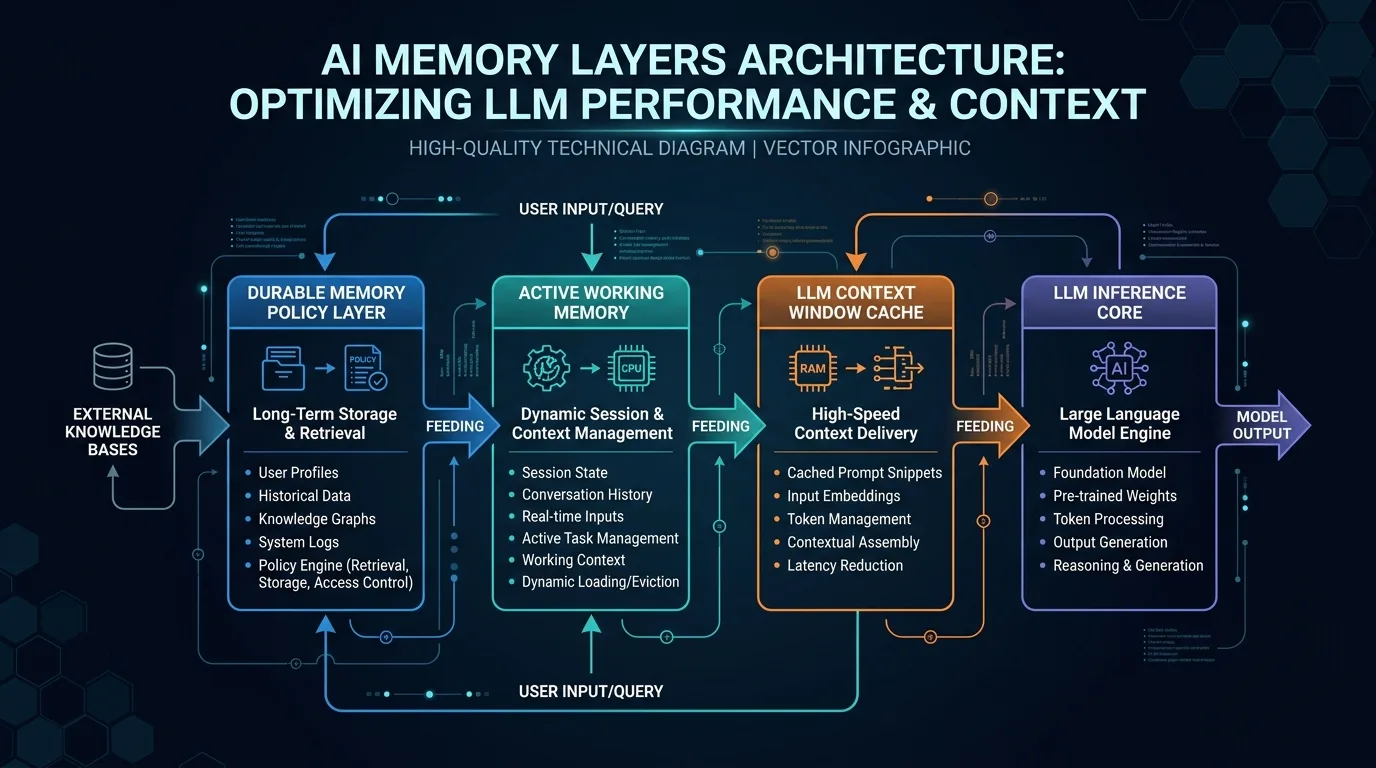
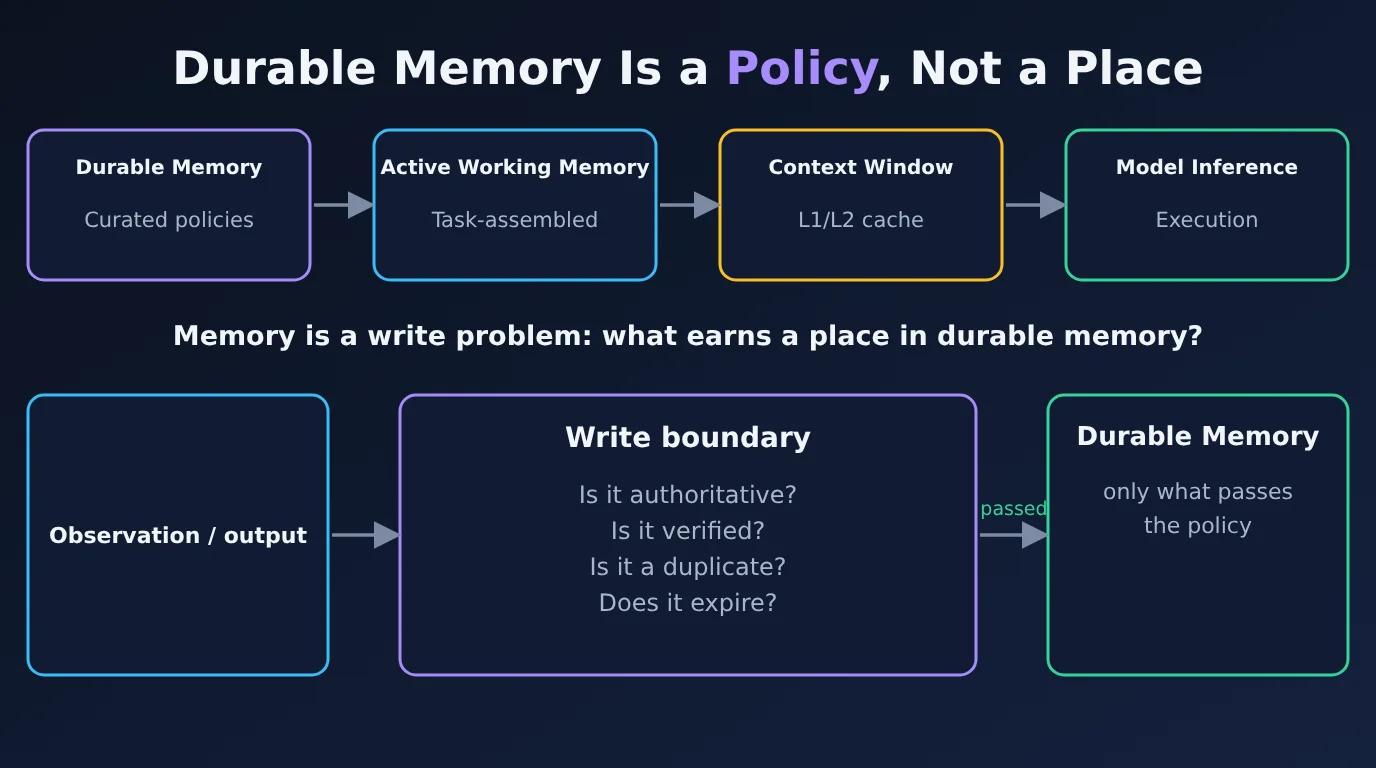
Review fixes: replace 3 inaccurate covers, correct alt text, improve diagram contrast and mobile scrolling
- Replace Polars/io_uring/leaked-prompt covers with accurate hand-drawn ones (design/cover-sources)
- Fix wrong 'Polars' imageAlt on the payment-aging article (Pandas)
- Istio diagram: opaque mesh container; darken low-contrast footnotes in all SVGs
- Body diagrams scroll inside their figure on phones instead of shrinking to unreadable text

Claude-Session: https://claude.ai/code/session_01CQNDUvrhkusfTduGm91qvn

diff --git a/src/styles/global.css b/src/styles/global.css
@@ -777,3 +777,9 @@ article ul, article ol { padding-left: 1.4rem; margin: 1rem 0; }
 article li { margin: 0.35rem 0; }
 article li > p { margin: 0.25rem 0; }
 table { display: block; overflow-x: auto; }
+
+/* Body diagrams: on narrow screens keep them at a readable size and scroll inside the figure, not the page */
+article p:has(> img) { overflow-x: auto; -webkit-overflow-scrolling: touch; }
+@media (max-width: 640px) {
+  article p > img { min-width: 620px; max-width: none; }
+}

diff --git a/design/build-covers.py b/design/build-covers.py
@@ -1,0 +1,82 @@
+#!/usr/bin/env python3
+"""Generates the hand-drawn cover SVGs in design/cover-sources/.
+Render to WebP with: node design/render-covers.mjs
+Content must come only from the article text."""
+from pathlib import Path
+from xml.sax.saxutils import escape as esc
+OUT = Path(__file__).parent / 'cover-sources'
+BG = '#0b1220'; PANEL = '#111c33'; TXT = '#f1f5f9'; SUB = '#aab6c8'
+BLUE, PURPLE, GREEN, AMBER, RED = '#38bdf8', '#a78bfa', '#34d399', '#fbbf24', '#f87171'
+
+def head(title_parts):
+    # title_parts: list of (text, colour)
+    t = ''.join(f'<tspan fill="{c}">{esc(s)}</tspan>' for s, c in title_parts)
+    return f'''<svg xmlns="http://www.w3.org/2000/svg" viewBox="0 0 1376 768" width="1376" height="768" font-family="'Noto Sans','DejaVu Sans',Arial,sans-serif">
+<defs>
+  <linearGradient id="bg" x1="0" y1="0" x2="1" y2="1"><stop offset="0" stop-color="#0b1220"/><stop offset="1" stop-color="#14213d"/></linearGradient>
+  <marker id="ar" viewBox="0 0 10 10" refX="8" refY="5" markerWidth="8" markerHeight="8" orient="auto"><path d="M0,0 L10,5 L0,10 z" fill="#7d8aa3"/></marker>
+</defs>
+<rect width="1376" height="768" fill="url(#bg)"/>
+<text x="688" y="84" text-anchor="middle" font-size="46" font-weight="700" fill="{TXT}">{t}</text>
+'''
+def box(x, y, w, h, color, title, lines=(), tsize=26, lsize=21, fill=PANEL, align='middle', title_color=TXT):
+    cx = x + w / 2
+    s = f'<rect x="{x}" y="{y}" width="{w}" height="{h}" rx="16" fill="{fill}" stroke="{color}" stroke-width="3"/>\n'
+    ty = (y + h / 2 + tsize * 0.35) if not lines else (y + 24 + tsize)
+    s += f'<text x="{cx}" y="{ty}" text-anchor="middle" font-size="{tsize}" font-weight="700" fill="{title_color}">{esc(title)}</text>\n'
+    for i, l in enumerate(lines):
+        s += f'<text x="{cx}" y="{ty + 20 + (i + 1) * (lsize + 12)}" text-anchor="middle" font-size="{lsize}" fill="{SUB}">{esc(l)}</text>\n'
+    return s
+def arrow(x1, y1, x2, y2, dash=False):
+    d = ' stroke-dasharray="8,6"' if dash else ''
+    return f'<line x1="{x1}" y1="{y1}" x2="{x2}" y2="{y2}" stroke="#7d8aa3" stroke-width="3.5" marker-end="url(#ar)"{d}/>\n'
+def text(x, y, s, size=22, color=SUB, anchor='middle', weight='400'):
+    return f'<text x="{x}" y="{y}" text-anchor="{anchor}" font-size="{size}" font-weight="{weight}" fill="{color}">{esc(s)}</text>\n'
+
+# 1. payment aging (Pandas) ---------------------------------------------------
+s = head([('Vectorized Payment Aging with ', TXT), ('Pandas', BLUE)])
+s += box(28, 170, 360, 470, BLUE, 'Data Ingestion Layer', ['CSV export', 'PostgreSQL billing DB', 'Stripe webhook'], lsize=24)
+s += box(458, 170, 460, 470, PURPLE, 'Vectorized Pandas Engine',
+         ['1. Normalize ISO-8601 timestamps', '2. Compute delinquency deltas', '   (PaymentDate - DueDate)', '3. Age open invoices', '   (Today - DueDate)', '4. Customer GroupBy', '   aggregation & scoring'], lsize=23)
+s += box(988, 170, 360, 470, GREEN, 'Actionable Outputs', ['Categorized risk tiers:', 'Excellent · Good', 'Attention', 'High Risk · Critical', '', 'Automated overdue', 'dunning webhooks'], lsize=23)
+s += arrow(392, 405, 452, 405) + arrow(922, 405, 982, 405)
+s += '</svg>\n'
+(OUT / 'pandas_payment_aging_pipeline.svg').write_text(s, encoding='utf-8')
+
+# 2. streaming I/O ---------------------------------------------------------------
+s = head([('Streaming I/O: ', TXT), ('O(1) Memory', GREEN), (' vs Batch Buffering', TXT)])
+s += f'<rect x="28" y="125" width="1320" height="270" rx="20" fill="none" stroke="{RED}" stroke-width="2.5" stroke-dasharray="10,7"/>\n'
+s += text(60, 170, 'Flawed: in-memory batch buffering', 28, RED, 'start', '700')
+s += box(80, 205, 320, 150, BLUE, 'Input', ['100k records'])
+s += box(528, 205, 320, 150, AMBER, 'Giant buffer array', ['all cases held at once'], lsize=21)
+s += box(976, 205, 320, 150, RED, 'Memory Limit', ['Exceeded (MLE)'], tsize=26, lsize=22)
+s += arrow(404, 280, 524, 280) + arrow(852, 280, 972, 280)
+s += f'<rect x="28" y="420" width="1320" height="320" rx="20" fill="none" stroke="{GREEN}" stroke-width="2.5" stroke-dasharray="10,7"/>\n'
+s += text(60, 465, 'Correct: streaming single-pass I/O', 28, GREEN, 'start', '700')
+s += box(80, 495, 320, 130, BLUE, 'Read line')
+s += box(528, 495, 320, 130, PURPLE, 'Process token')
+s += box(976, 495, 320, 130, GREEN, 'Flush output')
+s += arrow(404, 560, 524, 560) + arrow(852, 560, 972, 560)
+s += f'<path d="M1136,630 L1136,690 L240,690 L240,630" fill="none" stroke="#7d8aa3" stroke-width="3.5" stroke-dasharray="8,6" marker-end="url(#ar)"/>\n'
+s += text(688, 678, 'Loop per record: constant O(1) storage', 22, TXT, 'middle', '600')
+s += '</svg>\n'
+(OUT / 'streaming_fast_io.svg').write_text(s, encoding='utf-8')
+
+# 3. durable memory ---------------------------------------------------------------
+s = head([('Durable Memory Is a ', TXT), ('Policy', PURPLE), (', Not a Place', TXT)])
+xs = [28, 374, 720, 1066]; w = 282
+items = [('Durable Memory', 'Curated policies', PURPLE), ('Active Working Memory', 'Task-assembled', BLUE),
+         ('Context Window', 'L1/L2 cache', AMBER), ('Model Inference', 'Execution', GREEN)]
+for x, (t, sub, c) in zip(xs, items):
+    s += box(x, 130, w, 150, c, t, [sub], tsize=20, lsize=21)
+for x in xs[:-1]:
+    s += arrow(x + w + 4, 205, x + w + 60, 205)
+s += text(688, 345, 'Memory is a write problem: what earns a place in durable memory?', 27, TXT, 'middle', '700')
+s += box(28, 395, 300, 280, BLUE, 'Observation / output', tsize=22)
+s += box(400, 395, 576, 280, PURPLE, 'Write boundary', ['Is it authoritative?', 'Is it verified?', 'Is it a duplicate?', 'Does it expire?'], tsize=28, lsize=24)
+s += box(1048, 395, 300, 280, GREEN, 'Durable Memory', ['only what passes', 'the policy'], tsize=26, lsize=22)
+s += arrow(332, 535, 396, 535) + arrow(980, 535, 1044, 535)
+s += text(1014, 515, 'passed', 19, GREEN)
+s += '</svg>\n'
+(OUT / 'durable_memory_architecture.svg').write_text(s, encoding='utf-8')
+print('ok')

diff --git a/docs/image-audit.md b/docs/image-audit.md
@@ -1,5 +1,12 @@
 # Cover image legibility and accuracy audit
 
+> **Follow-up (2026-10-30, review pass):** the three High-severity covers below were replaced with
+> hand-drawn covers built only from each article's own text (sources in `design/cover-sources/`).
+> Resolved: vectorized-payment-aging-pipeline-python (now Pandas), streaming-io-lessons-from-acm-icpc
+> (invented io_uring/DPDK/mmap removed), durable-memory-vector-databases (leaked prompt text removed).
+> The wrong "Polars" alt text on the payment-aging article was a migration error and is also fixed.
+> Everything else in this report is still open.
+
 Date: 2026-10-30. Report only — no images were regenerated, cropped, or altered. Each cover
 was opened at full size (1376x768) next to its article text. "Phone legibility" is judged
 against the main headline and section labels at 390px width (roughly 28% of full size);
@@ -43,7 +50,7 @@ regeneration, since a wrong fix could just encode the same error differently:
 
 - All 16 covers load correctly and none are missing alt text.
 - No image was edited as part of this audit (Part 2 is report-only per the handover).
-- Of the 16, five are already slated for in-body SVG replacement in Part 3 phase 1
+- Of the 16, six are already slated for an in-body SVG figure in Part 3 phase 1
   (preventing-rag-api-hallucinations [cover itself is fine; new SVG is a body figure],
   file-based-multi-agent-state-machine, autonomous-aws-ops-agent-mcp,
   coding-with-claude-code-in-production, react-datagrid-virtualization-space-explorer,

diff --git a/src/content/posts/vectorized-payment-aging-pipeline-python.md b/src/content/posts/vectorized-payment-aging-pipeline-python.md
@@ -4,8 +4,8 @@ description: "How to build an automated Accounts Receivable payment analysis too
 date: 2026-08-25
 tags: ["Data Engineering", "Performance"]
 tldr: "Managing Accounts Receivable (AR) through spreadsheets inevitably leads to broken formulas, missed delinquencies, and blind spots in cash flow. By replacing manual spreadsheets with a 50-line vectorized Pandas pipeline, you can parse millions of invoice records in milliseconds, compute accurate aging schedules, and classify customer credit risk automatically."
-image: ../../assets/images/polars_vectorized_pipeline.webp
-imageAlt: "Vectorized payment aging pipeline in Polars diagram"
+image: ../../assets/images/pandas_payment_aging_pipeline.webp
+imageAlt: "Payment aging pipeline: data ingestion feeds a vectorized Pandas engine that outputs customer risk tiers and dunning webhooks"
 ---
 
 ## The Problem with Spreadsheet-Driven Receivables

diff --git a/src/content/posts/streaming-io-lessons-from-acm-icpc.md b/src/content/posts/streaming-io-lessons-from-acm-icpc.md
@@ -5,7 +5,7 @@ date: 2026-08-25
 tags: ["Performance", "Systems"]
 tldr: "During an ACM-ICPC collegiate programming contest, a team of straight-A computer science students scored zero points across all ten problems due to an unhandled Memory Limit Exceeded error. The culprit was not algorithm complexity, but buffering entire inputs and outputs into massive static arrays instead of using streaming I/O."
 image: ../../assets/images/streaming_fast_io.webp
-imageAlt: "Fast streaming I/O diagram"
+imageAlt: "In-memory batch buffering that exceeds the memory limit, compared with streaming I/O that reads, processes and flushes one record at a time in constant memory"
 ---
 
 ## The Day a Straight-A Team Scored Zero at ACM-ICPC

diff --git a/src/content/posts/durable-memory-vector-databases.md b/src/content/posts/durable-memory-vector-databases.md
@@ -4,7 +4,7 @@ description: "Why durable memory is more than persistent storage, and why the re
 date: 2026-08-14
 tags: ["AI", "LLM", "Data Engineering", "Architecture"]
 image: ../../assets/images/durable_memory_architecture.webp
-imageAlt: "Durable memory and vector database architecture diagram"
+imageAlt: "Durable memory as a curated policy feeding working memory, the context window and model inference, plus the write boundary that decides what is stored"
 series: "Building the AI Memory Stack"
 part: 3
 ---
